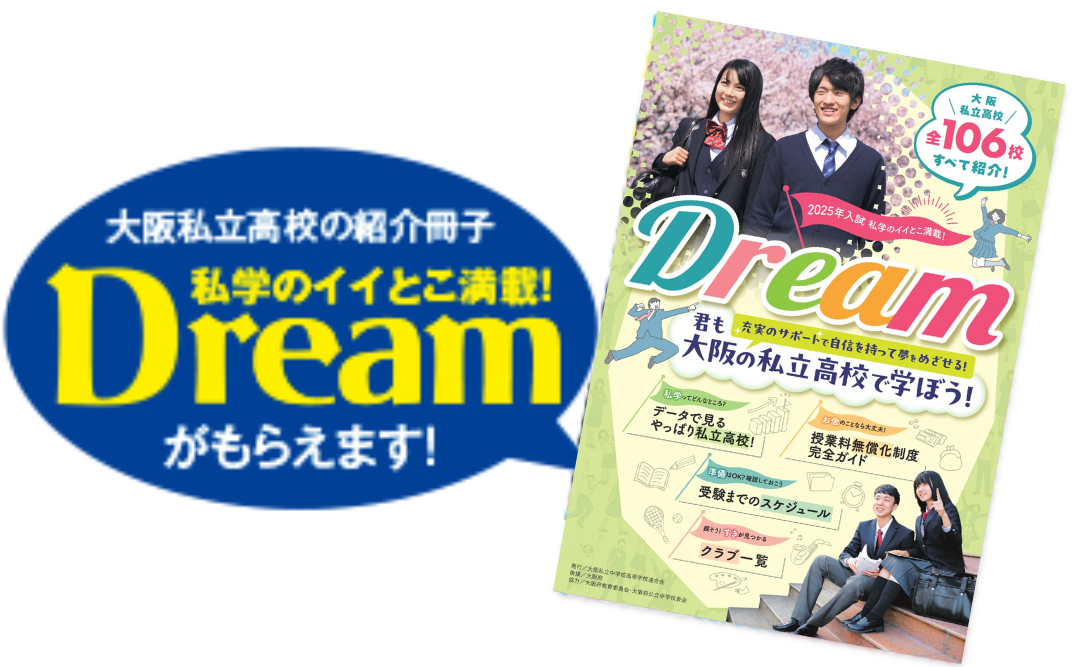
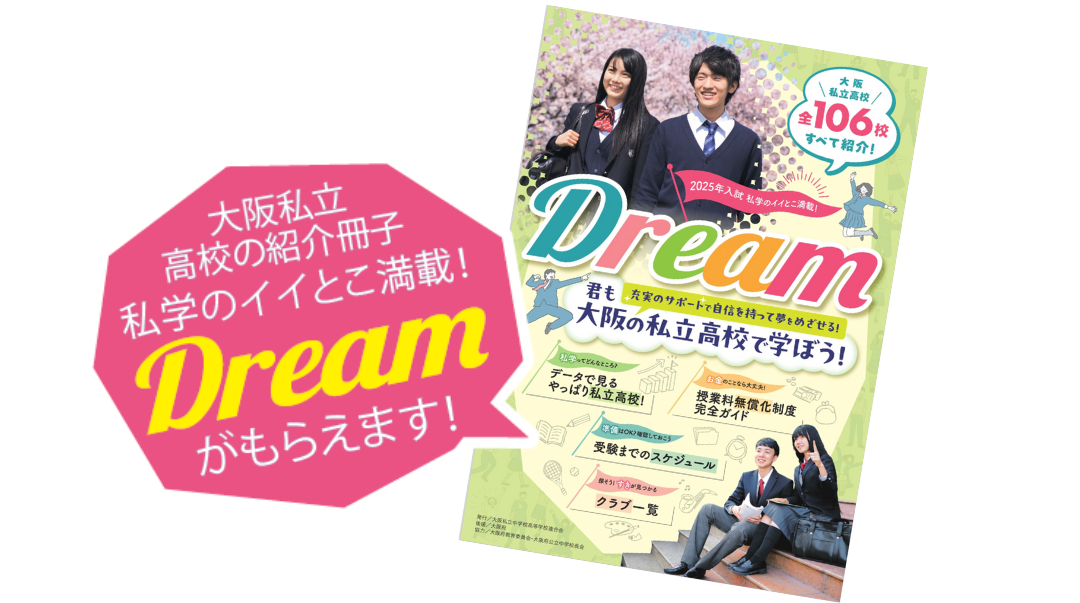
20240618-2

diff --git a/css/style.css b/css/style.css
@@ -1558,7 +1558,7 @@ main {
 
 @media screen and (max-width: 480px) {
   .meetingCnt_btn {
-    background: #fff url("../img/img_dream_2023.png") no-repeat right 10px bottom 10px;
+    background: #fff url("../img/img_dream_2025.png") no-repeat right 10px bottom 10px;
     background-size: 155px;
     width: 100%;
     margin: 30px auto 0;

diff --git a/docs/css/style.css b/docs/css/style.css
@@ -1558,7 +1558,7 @@ main {
 
 @media screen and (max-width: 480px) {
   .meetingCnt_btn {
-    background: #fff url("../img/img_dream_2023.png") no-repeat right 10px bottom 10px;
+    background: #fff url("../img/img_dream_2025.png") no-repeat right 10px bottom 10px;
     background-size: 155px;
     width: 100%;
     margin: 30px auto 0;

diff --git a/css/style.scss b/css/style.scss
@@ -1843,7 +1843,7 @@ main {
 
 @media screen and (max-width: 480px) {
 	.meetingCnt_btn {
-		background: #fff url("../img/img_dream_2023.png") no-repeat right 10px
+		background: #fff url("../img/img_dream_2025.png") no-repeat right 10px
 			bottom 10px;
 		background-size: 155px;
 		width: 100%;

diff --git a/docs/css/style.scss b/docs/css/style.scss
@@ -1843,7 +1843,7 @@ main {
 
 @media screen and (max-width: 480px) {
 	.meetingCnt_btn {
-		background: #fff url("../img/img_dream_2023.png") no-repeat right 10px
+		background: #fff url("../img/img_dream_2025.png") no-repeat right 10px
 			bottom 10px;
 		background-size: 155px;
 		width: 100%;
